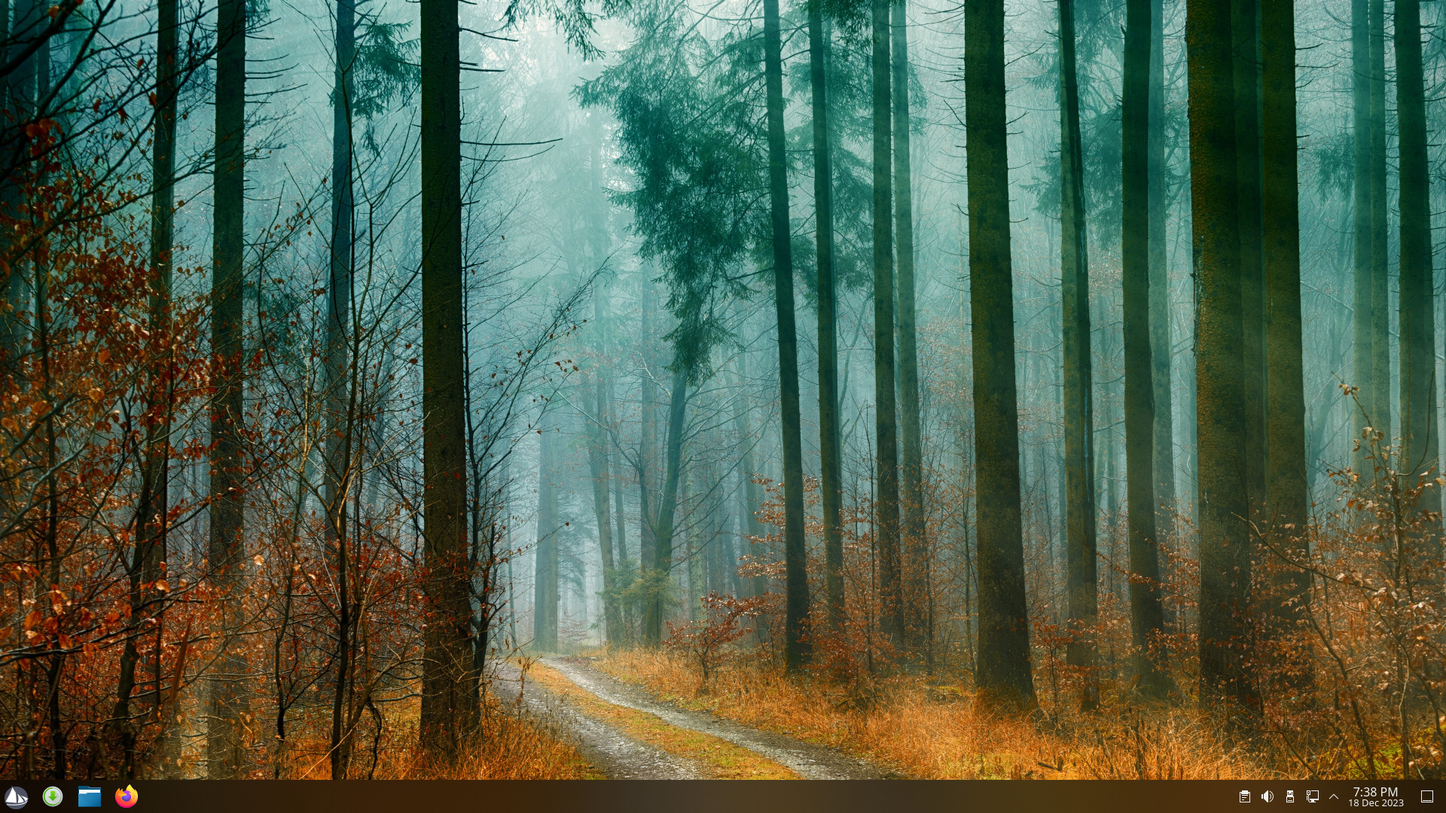
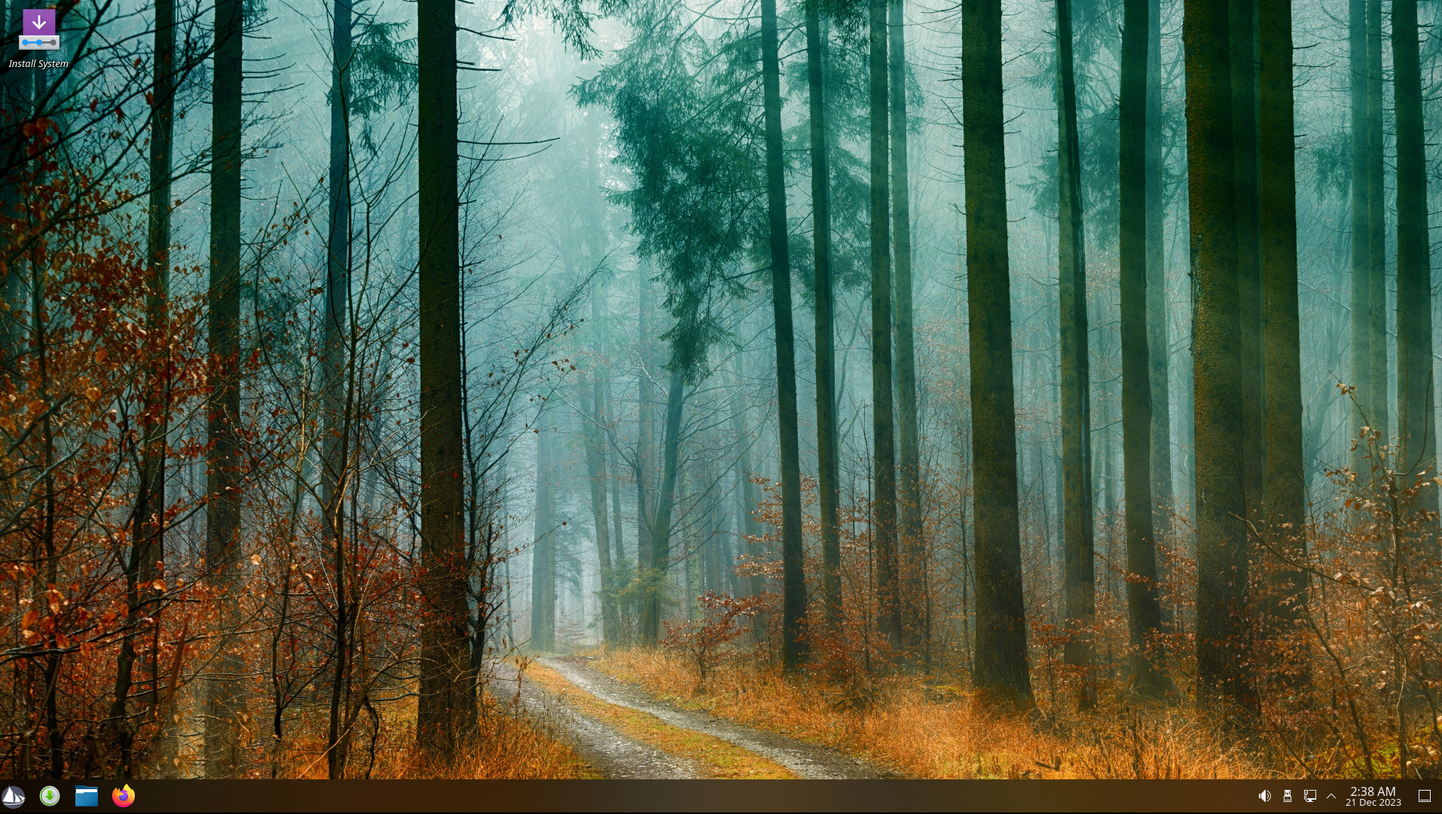
XFCE Tweaks, update pics (#20)
- Change the homepage XFCE image to a separate file
- XFCE is beta for the upcoming release
- Update release pics
- Collage pic lives next to blog post index file, will add that later

diff --git a/themes/solus/layouts/shortcodes/pages/download.html b/themes/solus/layouts/shortcodes/pages/download.html
@@ -1,6 +1,6 @@
 {{ $site := .Site }}
 <div class="downloads">
-{{ range $edition := (slice "Budgie" "GNOME" "Plasma" "XFCE") }}
+{{ range $edition := (slice "Budgie" "GNOME" "Plasma" "XFCE-Beta") }}
 	{{ $editionInfo := (index $site.Data.isos.info $edition )}}
 	{{ $release := printf "Solus-%s-%s" $site.Data.isos.info.Version $edition }}
 	{{ $editionISO := printf "%s.iso" $release }}

diff --git a/themes/solus/layouts/shortcodes/panels/designed-for-everyone.html b/themes/solus/layouts/shortcodes/panels/designed-for-everyone.html
@@ -18,6 +18,6 @@
   </section>
   <img
     alt="XFCE Desktop screenshot"
-    src="{{ .Site.BaseURL }}/imgs/release-images/4.5/XFCE.jpg"
+    src="{{ .Site.BaseURL }}/imgs/release-images/XFCE-desktop.jpg"
   />
 </div>
